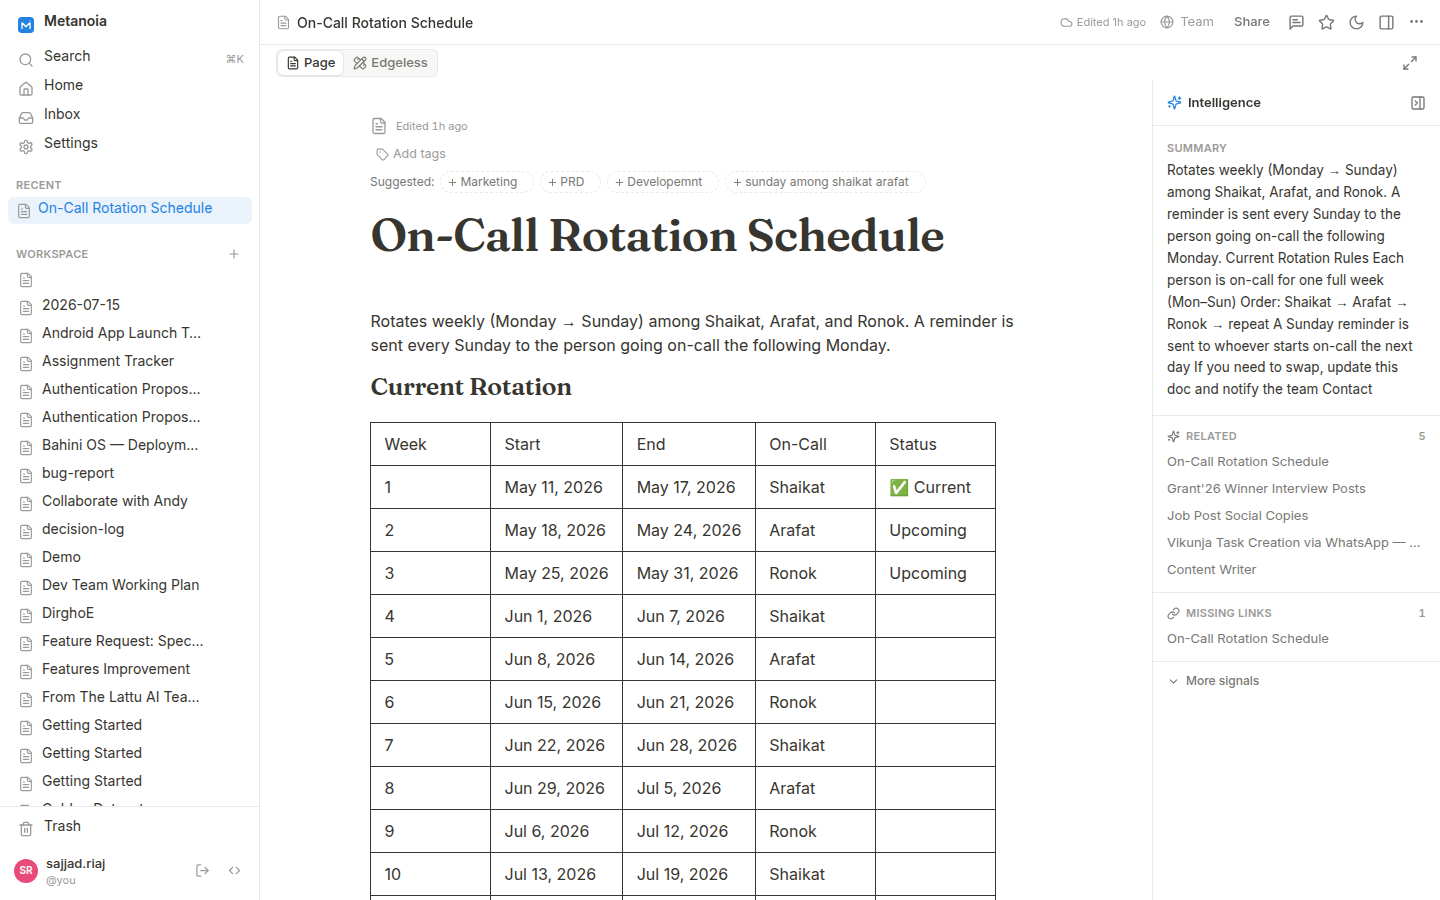
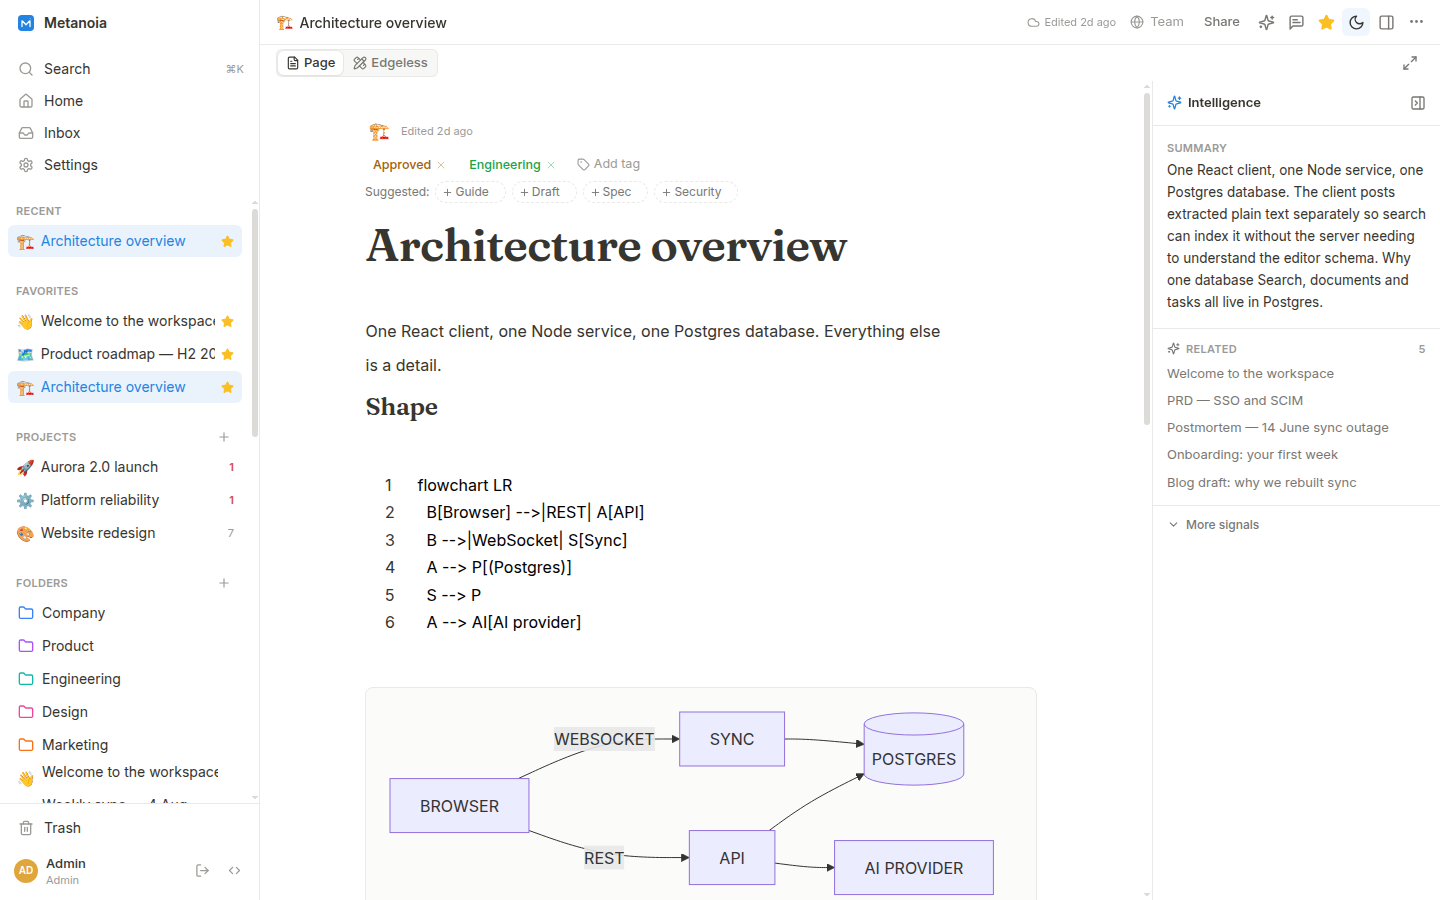
docs: retake screenshots on the demo workspace
The README screenshot still showed real internal page titles and names.
Recaptured both shots against the seeded demo workspace and added a board
shot, since projects/kanban were not pictured or documented at all.

Seed script: attribute tasks to their assignee rather than the admin, so
the activity feed reads naturally, and give the admin a spread of assigned
tasks so the home page is not empty in a screenshot.

diff --git a/README.md b/README.md
@@ -18,6 +18,10 @@
   <img src="assets/screenshot.png" alt="MetanoiaDocs screenshot" width="900" />
 </p>
 
+<p align="center">
+  <img src="assets/screenshot-board.png" alt="MetanoiaDocs project board" width="900" />
+</p>
+
 MetanoiaDocs is an open-source alternative to Notion / AFFiNE you run yourself. It
 pairs the [BlockSuite](https://github.com/toeverything/blocksuite) block editor with
 an original Node/Postgres backend — real-time sync, no proprietary server code, and
@@ -32,6 +36,7 @@ an original Node/Postgres backend — real-time sync, no proprietary server code
 - **Team & private pages** — every doc is team-visible by default; flip any page to **Private** (owner-only) from the top bar.
 - **Comments & @-mentions** — threaded, block-anchored comments; @-mention teammates for an in-app + email notification.
 - **Organize** — nested page tree with drag-reorder, colored **tags**, favorites, and folders.
+- **Projects** — per-project **kanban**, backlog, table, Gantt and calendar views, with sprints, epics/stories, dependencies, milestones and assignees. Any task can link to the page that specifies it.
 - **Find anything** — hybrid full-text + fuzzy (typo-tolerant) search and a ⌘K command palette.
 - **Ambient intelligence** — a per-doc rail that surfaces related pages, auto tag & link suggestions, and extracted tasks / decisions / risks / deadlines, plus duplicate & stale detection. Computed locally in Postgres on save — **no LLM, no external calls**.
 - **Version history** — automatic + manual snapshots, non-destructive restore.
